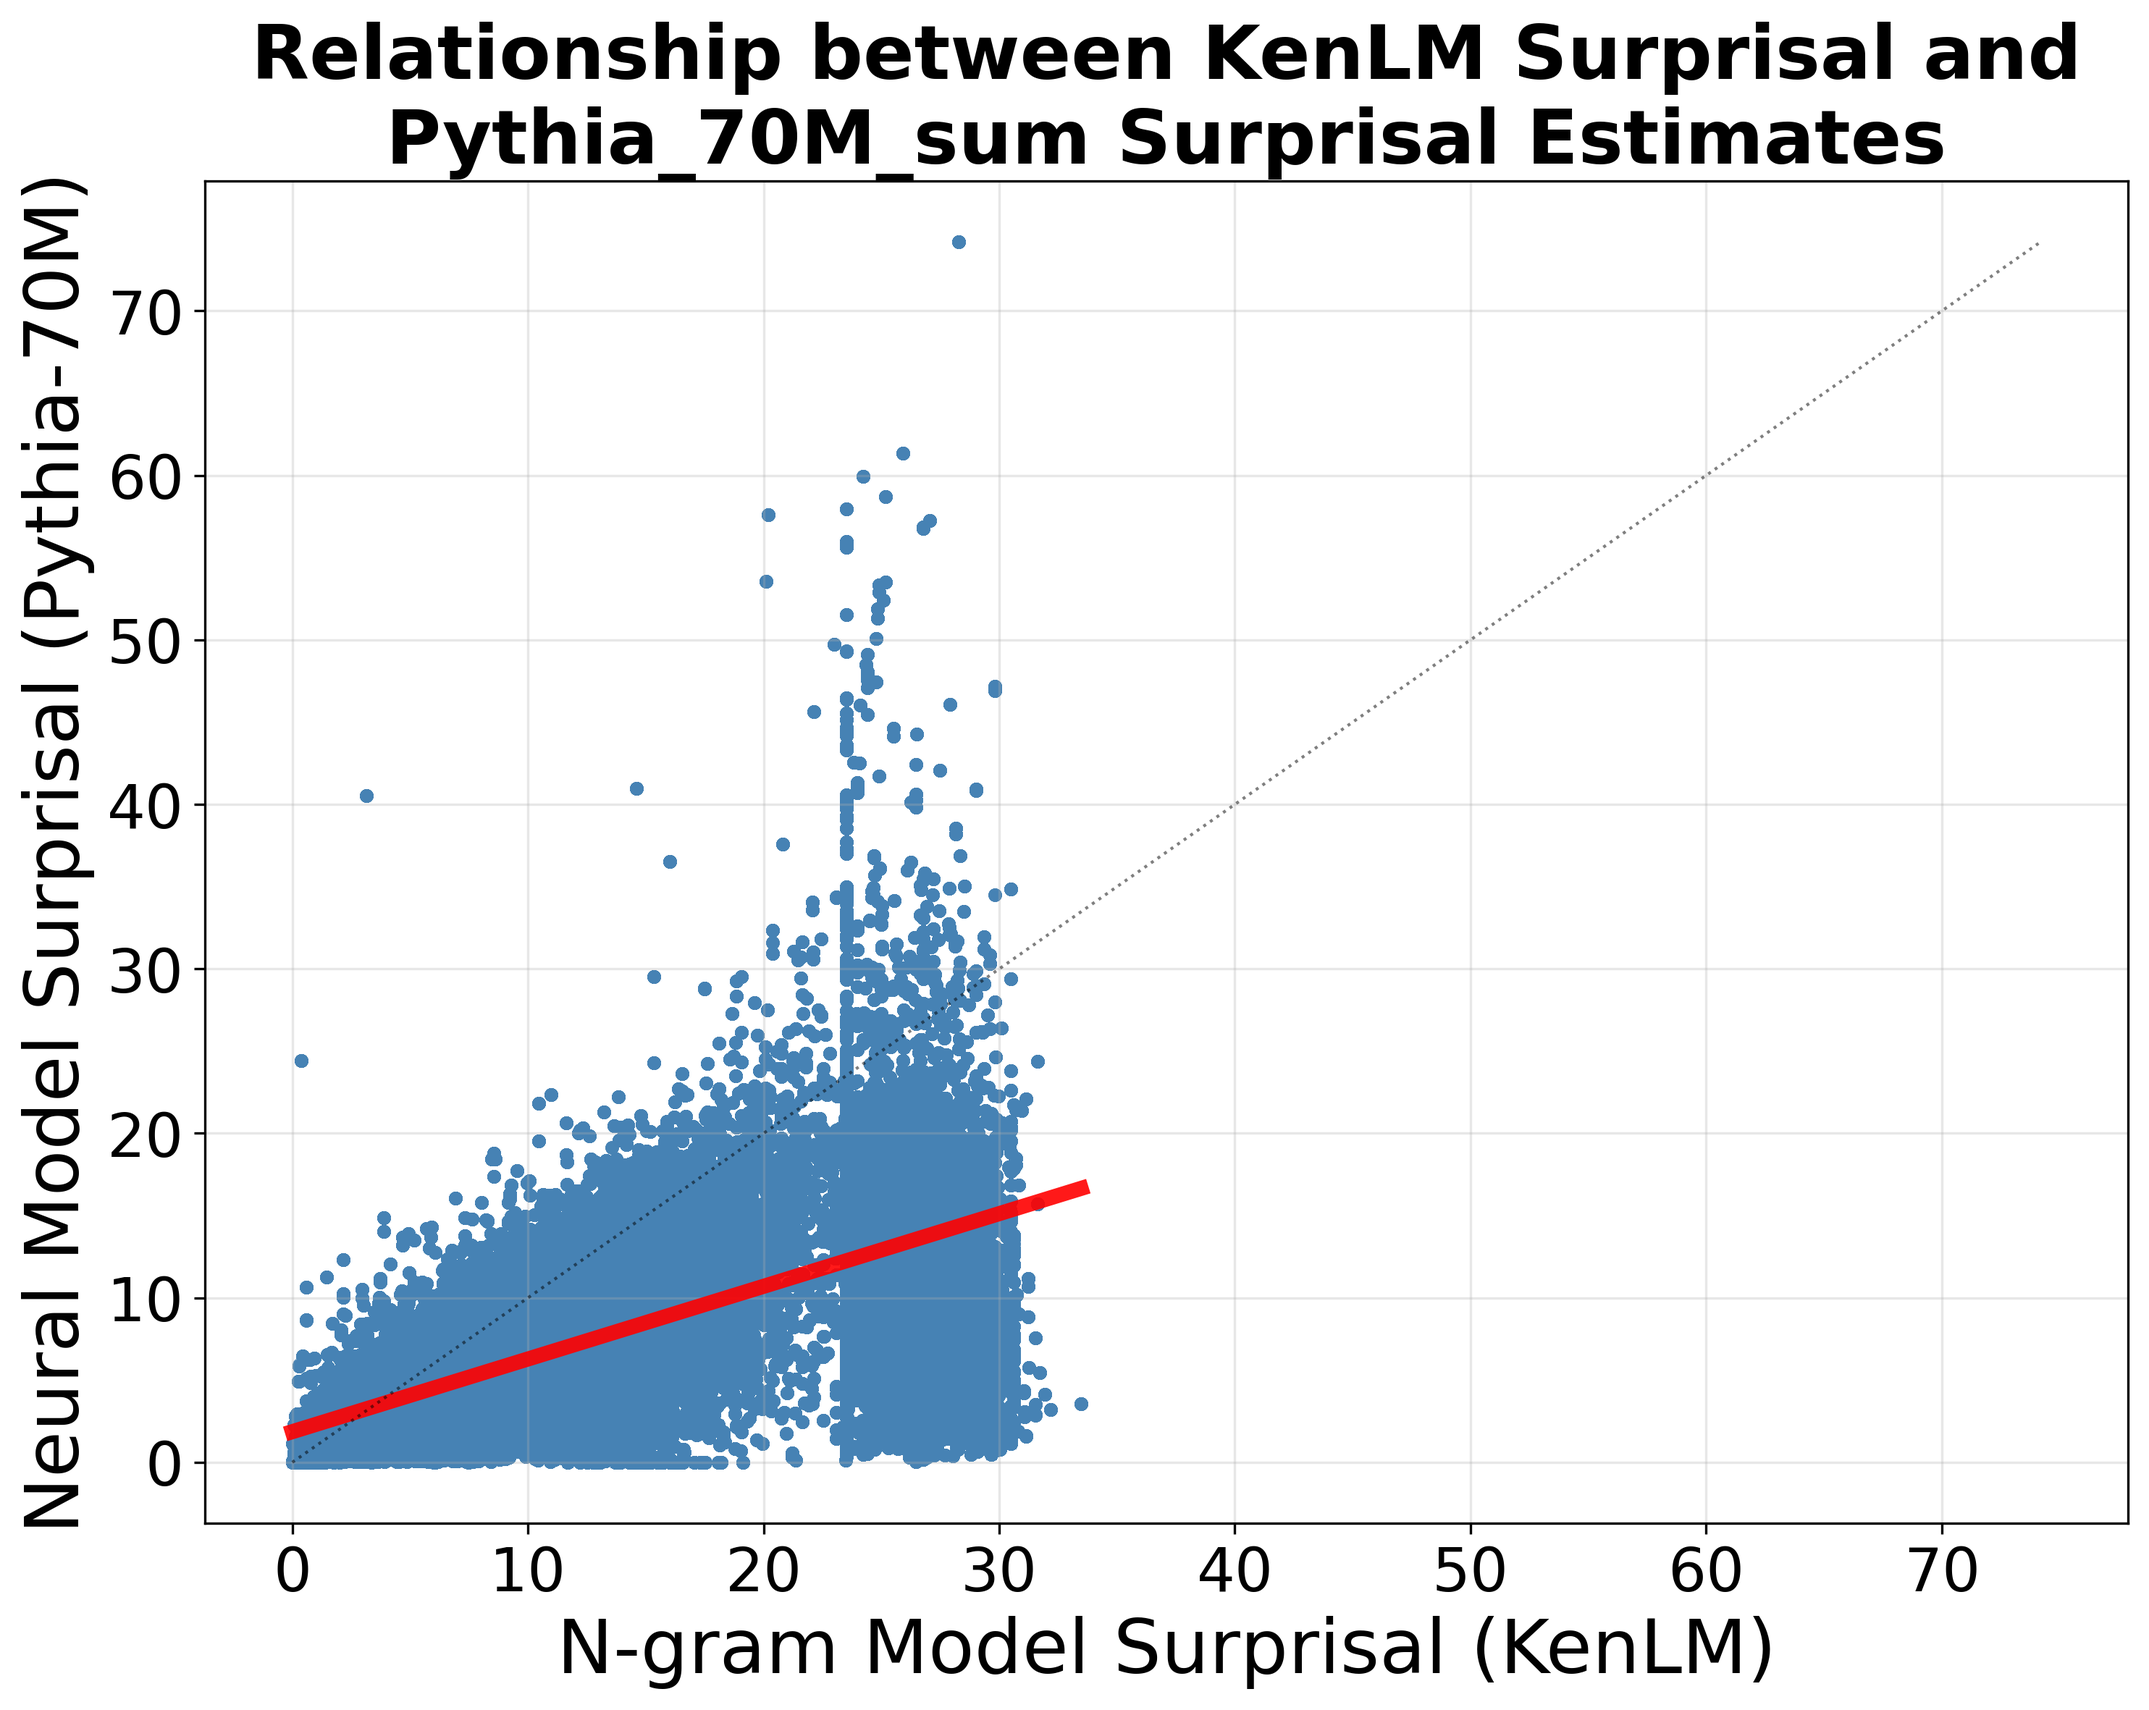
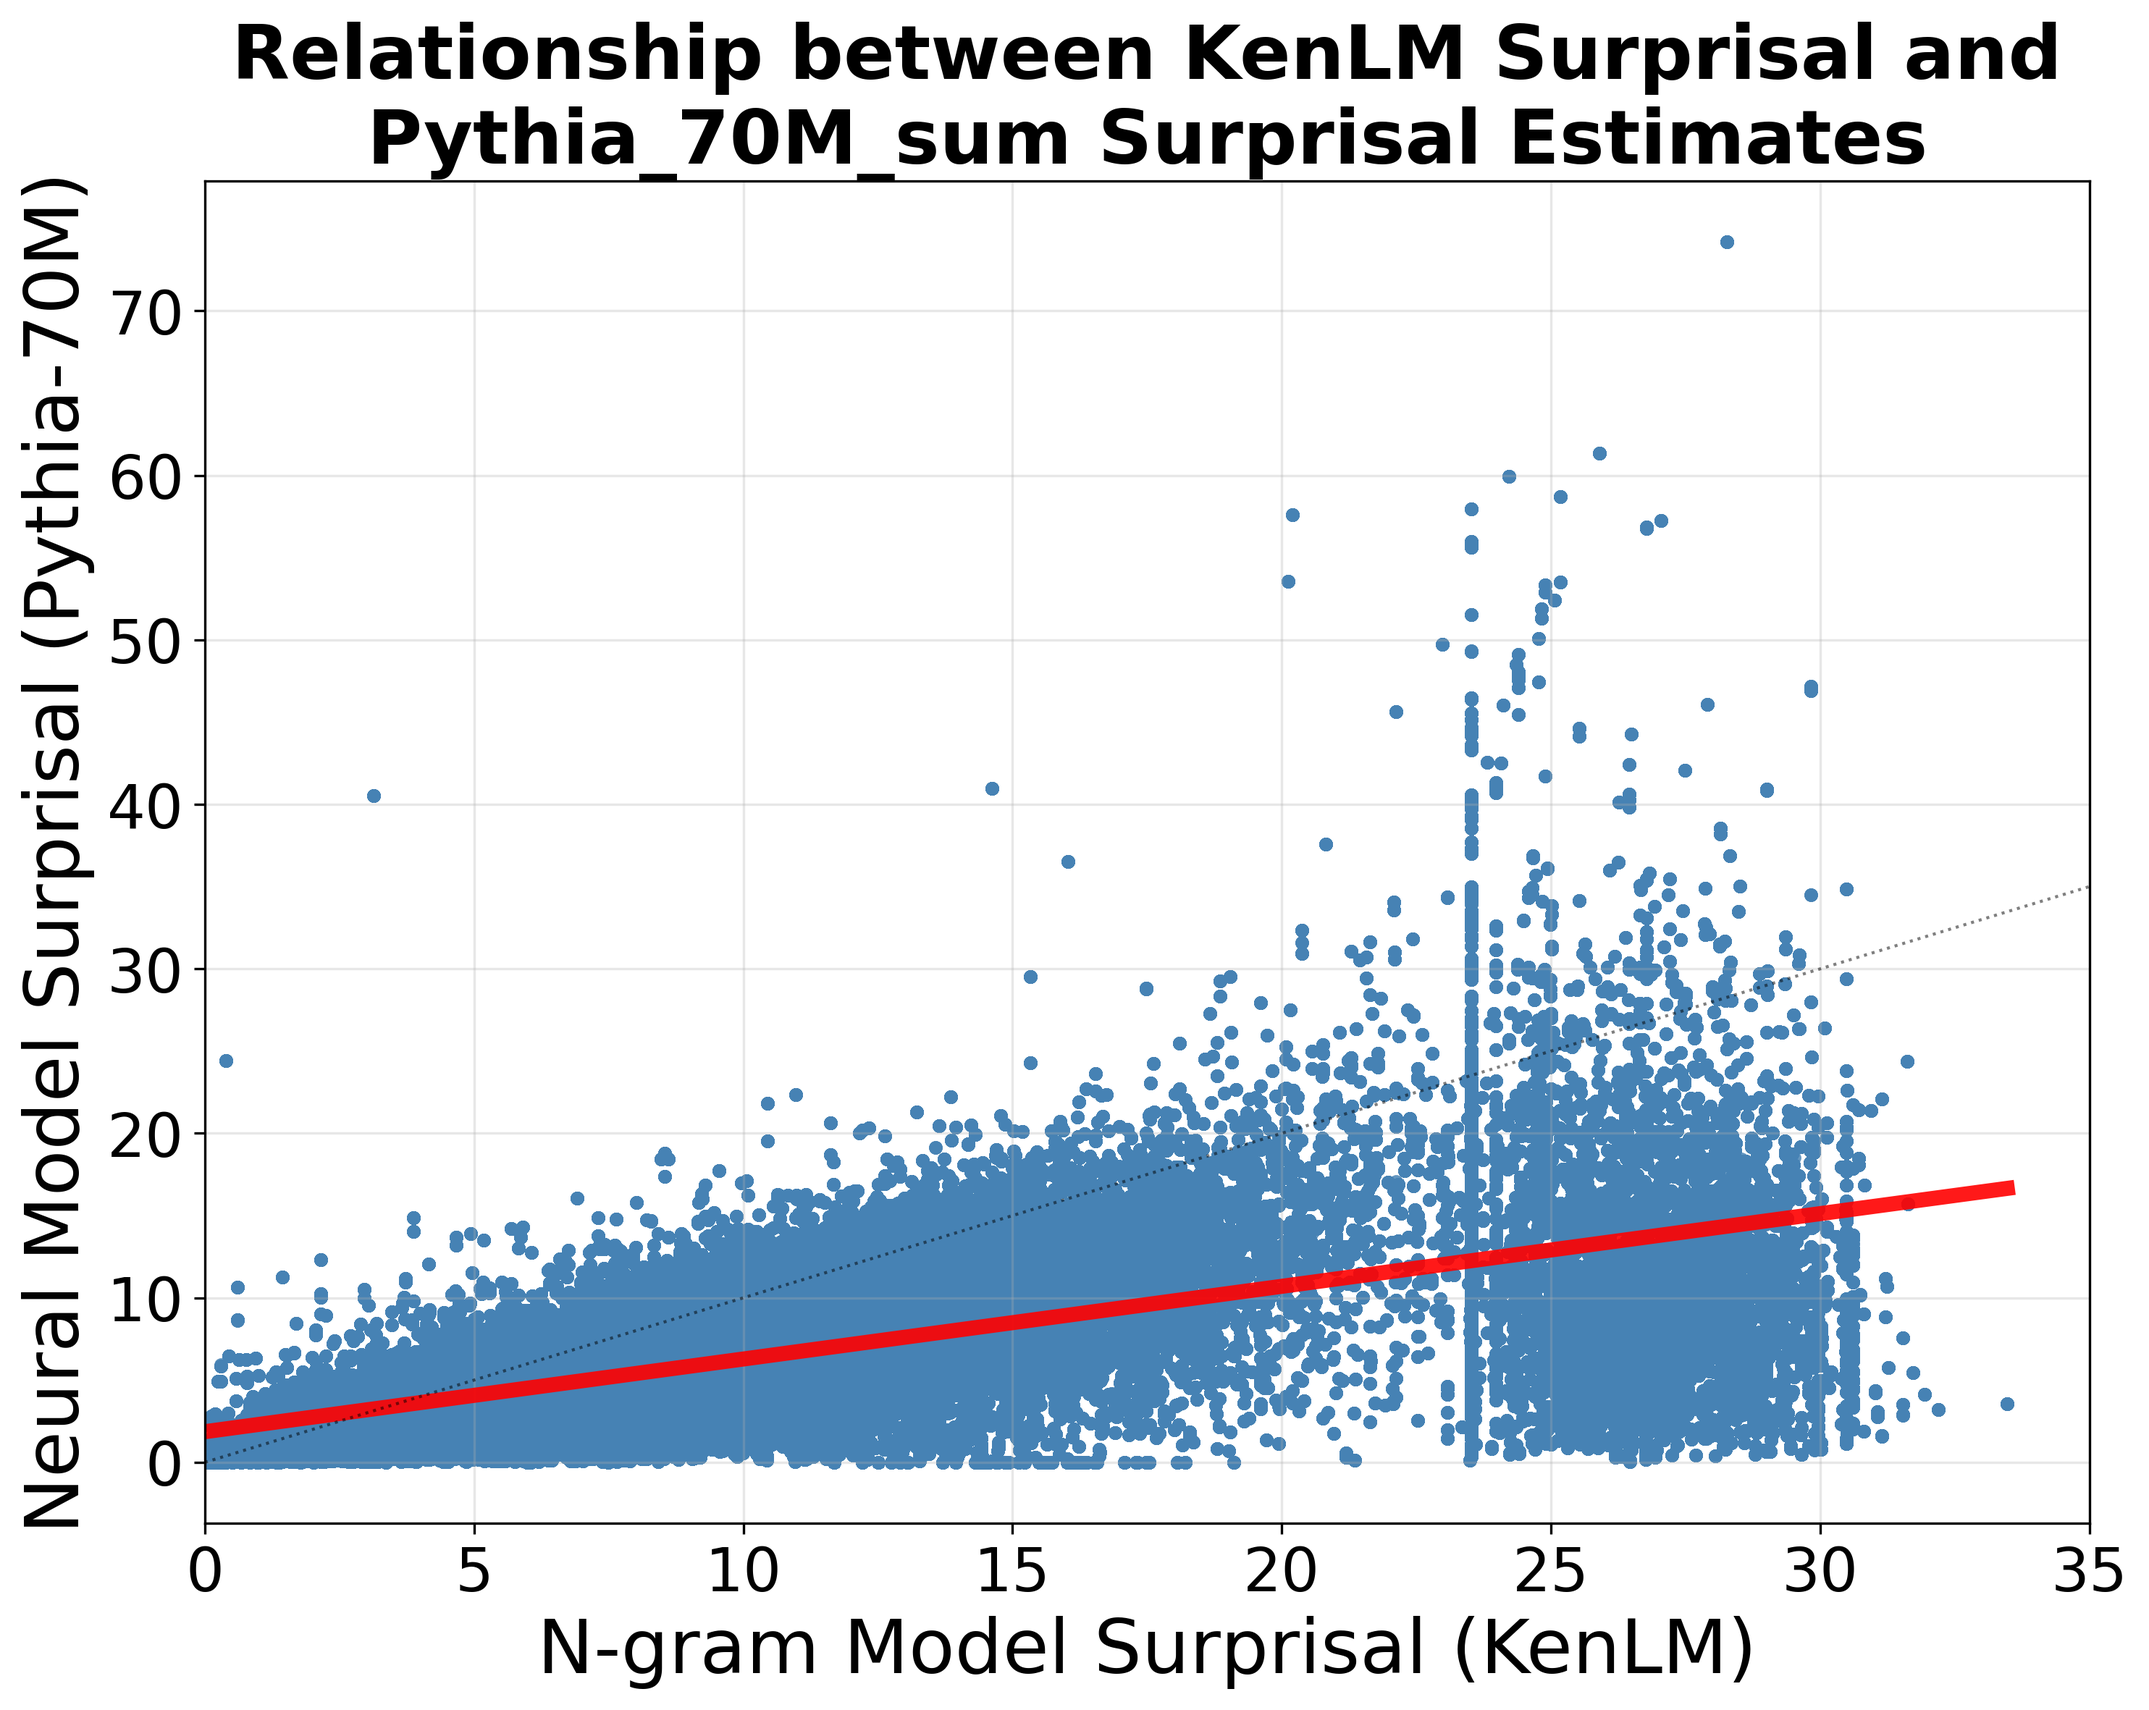
small change in results

diff --git a/get_results/correlation_plot_and_statistics.py b/get_results/correlation_plot_and_statistics.py
@@ -10,13 +10,16 @@ warnings.filterwarnings('ignore')
 
 # merged_path = "pre_processing_data\\merged_surprisal_dwell_kenlm_pythia.csv"
 # merged_path = f"pre_processing_data\\merged_surprisal_dwell_kenlm_pythia.csv"
-data_and_results_parent_folder = f"open_part\\only_paragraph_as_context\\outside_span"
-pre_processing_folder = f"{data_and_results_parent_folder}\\pre_processed_data"
-results_parent_folder = f"{data_and_results_parent_folder}\\results"
+# data_and_results_parent_folder = f"open_part\\only_paragraph_as_context\\outside_span"
+# pre_processing_folder = f"{data_and_results_parent_folder}\\pre_processed_data"
+# results_parent_folder = f"{data_and_results_parent_folder}\\results"
+merged_path = f"pre_processing_data\\merged_after_spilover.csv"
+results_folder = f"results_constructed_part1_updated\\one_more_correlation"
 
-merged_path = f"{pre_processing_folder}\\merged_spilover_dwell_3_surprisals.csv"
+
+# merged_path = f"{pre_processing_folder}\\merged_spilover_dwell_3_surprisals.csv"
 # outputs paths
-results_folder = f"{results_parent_folder}\\correlations"
+# results_folder = f"{results_parent_folder}\\correlations"
 column_description_to_column_name = {
     "kenlm": "kenlm_surprisal",
     "pythia": "pythia70M_surprisal",
@@ -263,24 +266,24 @@ if __name__ == "__main__":
     # scatter_output = "surprisal_correlation_scatter.png"
     
     # Run analysis
-    # runs = [
-    #         ("kenlm", "pythia_sum", True, None, None),
-    #         ("kenlm", "pythia_average", True, None, None),
-    #         ("kenlm", "dwell_time", False, None, None),
-    #         ("pythia_sum", "dwell_time", False, None, None),
-    #         ("pythia_average", "dwell_time", False, None, None),
-    #         ("kenlm", "next_word_IA_DWELL_TIME", False, None, None),
-    #         ("pythia_sum", "next_word_IA_DWELL_TIME", False, None, None),
-    #         ("pythia_average", "next_word_IA_DWELL_TIME", False, None, None),
-    #         ]
     runs = [
-            ("llama_sum", "dwell_time", False, None, None),
-            ("llama_average", "dwell_time", False, None, None),
-            ("llama_sum", "next_word_IA_DWELL_TIME", False, None, None),
-            ("llama_average", "next_word_IA_DWELL_TIME", False, None, None),
-            ("llama_sum", "pythia_sum", False, None, None),
-            ("llama_average", "pythia_average", False, None, None),
+            ("kenlm", "pythia_sum", True, (0, 35), None),
+            # ("kenlm", "pythia_average", True, None, None),
+            # ("kenlm", "dwell_time", False, None, None),
+            # ("pythia_sum", "dwell_time", False, None, None),
+            # ("pythia_average", "dwell_time", False, None, None),
+            # ("kenlm", "next_word_IA_DWELL_TIME", False, None, None),
+            # ("pythia_sum", "next_word_IA_DWELL_TIME", False, None, None),
+            # ("pythia_average", "next_word_IA_DWELL_TIME", False, None, None),
             ]
+    # runs = [
+    #         ("llama_sum", "dwell_time", False, None, None),
+    #         ("llama_average", "dwell_time", False, None, None),
+    #         ("llama_sum", "next_word_IA_DWELL_TIME", False, None, None),
+    #         ("llama_average", "next_word_IA_DWELL_TIME", False, None, None),
+    #         ("llama_sum", "pythia_sum", False, None, None),
+    #         ("llama_average", "pythia_average", False, None, None),
+    #         ]
     for x_desc, y_desc, does_to_plot_perfect_corellation, xlim, ylim in runs:
         scatter_output = f"{results_folder}\\correlation_scatter_{x_desc}_vs_{y_desc}.png"
         summary_output = f"{results_folder}\\summary_statistics_{x_desc}_vs_{y_desc}.csv"
